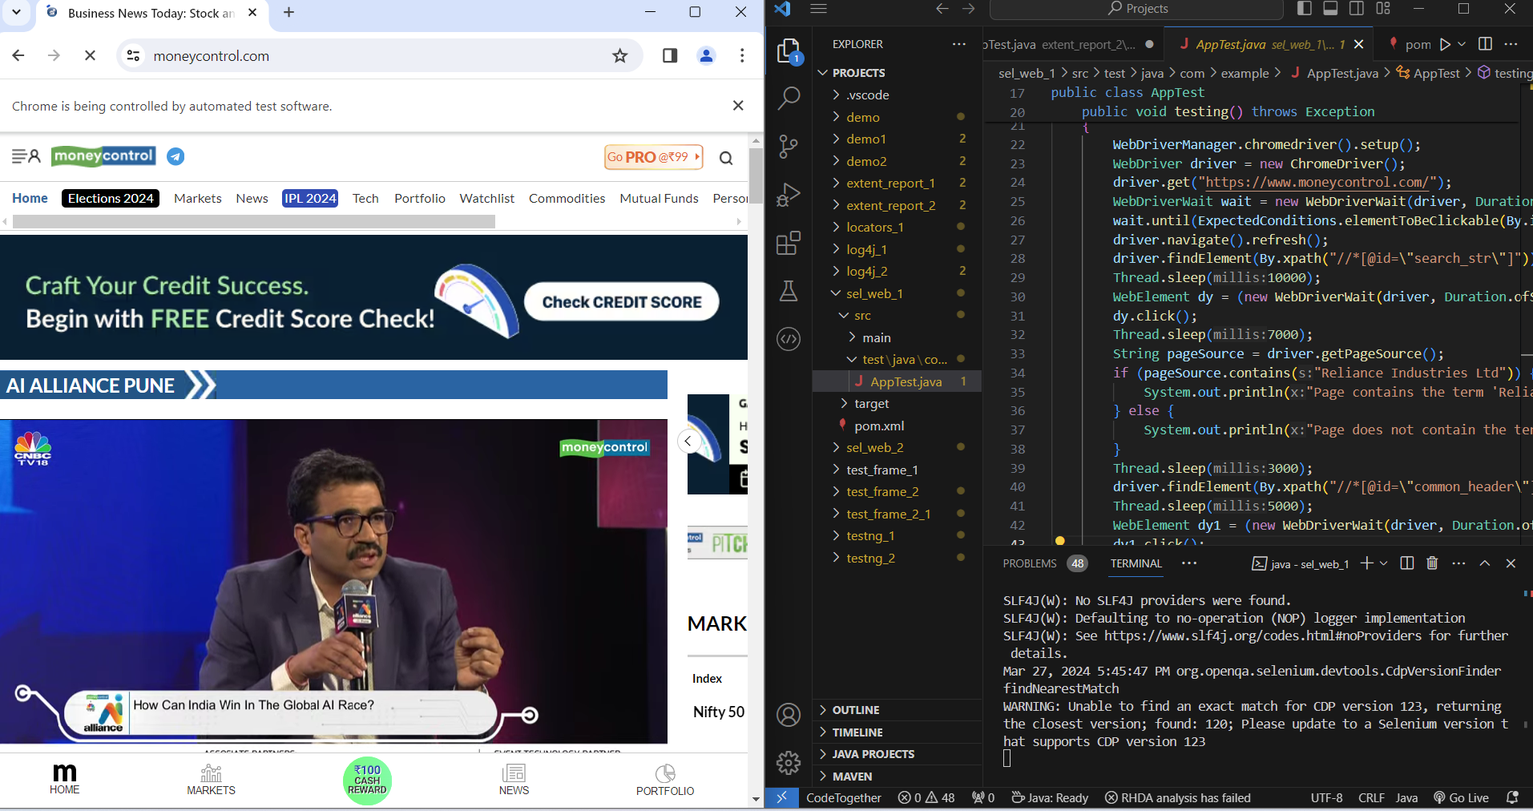
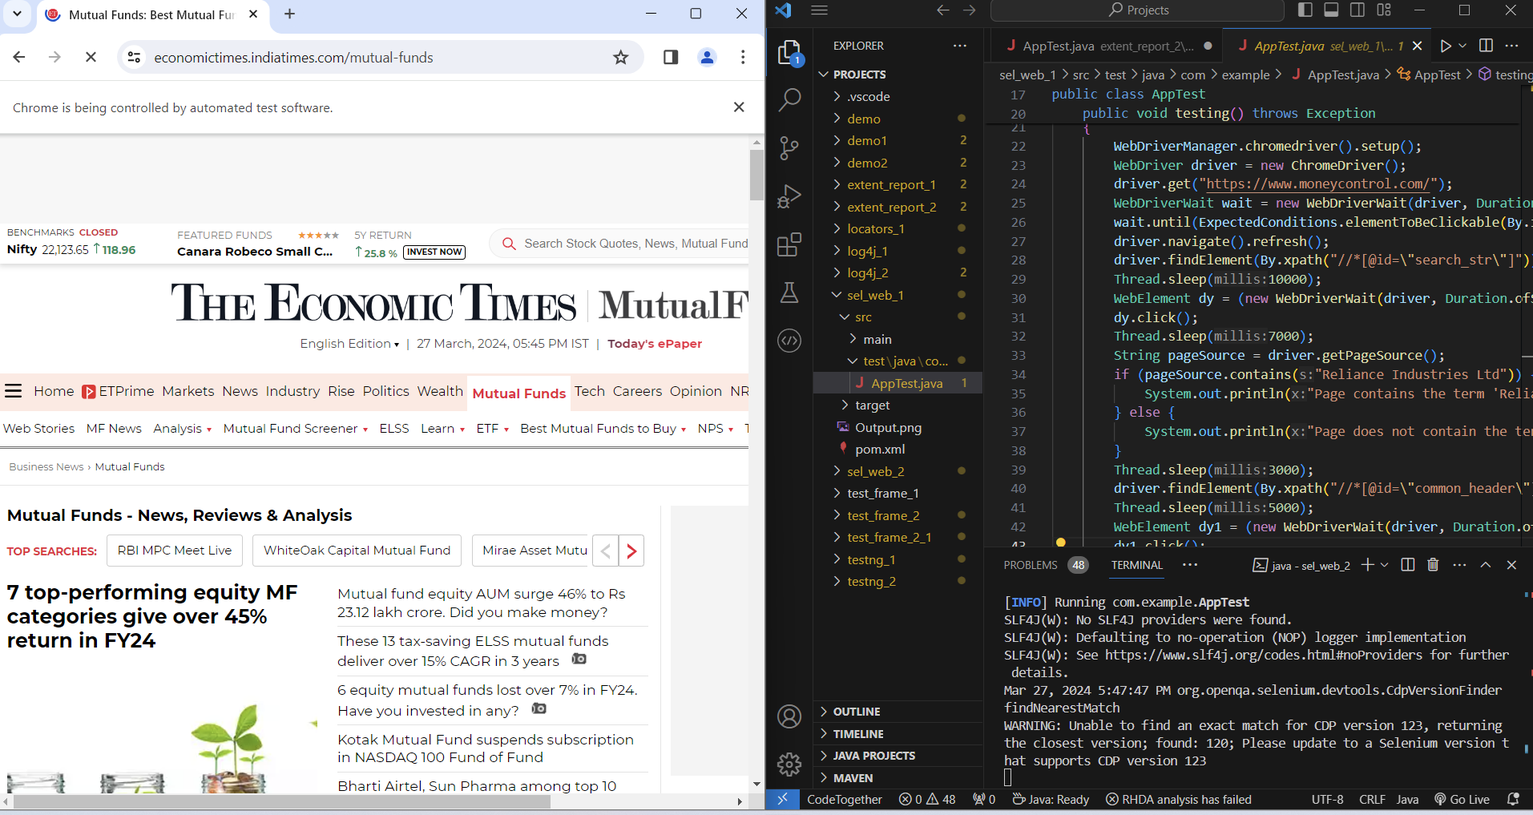
Add files via upload

diff --git a/Selenium Webdriver/target/surefire-reports/Surefire suite/Surefire test.html b/Selenium Webdriver/target/surefire-reports/Surefire suite/Surefire test.html
@@ -57,9 +57,9 @@ function toggleAllBoxes() {
 <tr>
 <td>Tests passed/Failed/Skipped:</td><td>0/1/0</td>
 </tr><tr>
-<td>Started on:</td><td>Wed Mar 27 17:45:44 IST 2024</td>
+<td>Started on:</td><td>Wed Mar 27 17:47:44 IST 2024</td>
 </tr>
-<tr><td>Total time:</td><td>46 seconds (46642 ms)</td>
+<tr><td>Total time:</td><td>83 seconds (83297 ms)</td>
 </tr><tr>
 <td>Included groups:</td><td></td>
 </tr><tr>
@@ -77,15 +77,27 @@ function toggleAllBoxes() {
 </tr>
 <tr>
 <td title='com.example.AppTest.testing()'><b>testing</b><br>Test class: com.example.AppTest</td>
-<td><div><pre>org.openqa.selenium.TimeoutException: Expected condition failed: waiting for element to be clickable: By.id: search_str (tried for 10 second(s) with 500 milliseconds interval)
+<td><div><pre>org.openqa.selenium.NoSuchWindowException: no such window: target window already closed
+from unknown error: web view not found
+  (Session info: chrome=123.0.6312.86)
 Build info: version: &apos;4.16.1&apos;, revision: &apos;9b4c83354e&apos;
 System info: os.name: &apos;Windows 11&apos;, os.arch: &apos;amd64&apos;, os.version: &apos;10.0&apos;, java.version: &apos;17.0.10&apos;
 Driver info: org.openqa.selenium.chrome.ChromeDriver
-Capabilities {acceptInsecureCerts: false, browserName: chrome, browserVersion: 123.0.6312.86, chrome: {chromedriverVersion: 123.0.6312.86 (9b72c47a0536..., userDataDir: C:\Users\utmag\AppData\Loca...}, fedcm:accounts: true, goog:chromeOptions: {debuggerAddress: localhost:60021}, networkConnectionEnabled: false, pageLoadStrategy: normal, platformName: windows, proxy: Proxy(), se:cdp: ws://localhost:60021/devtoo..., se:cdpVersion: 123.0.6312.86, setWindowRect: true, strictFileInteractability: false, timeouts: {implicit: 0, pageLoad: 300000, script: 30000}, unhandledPromptBehavior: dismiss and notify, webauthn:extension:credBlob: true, webauthn:extension:largeBlob: true, webauthn:extension:minPinLength: true, webauthn:extension:prf: true, webauthn:virtualAuthenticators: true}
-Session ID: 8e206a23b489aefc67af79acb29585cb
-	at org.openqa.selenium.support.ui.WebDriverWait.timeoutException(WebDriverWait.java:84)
-	at org.openqa.selenium.support.ui.FluentWait.until(FluentWait.java:229)
-	at com.example.AppTest.testing(AppTest.java:26)
+Command: [c613be0053ab9027dd490e2678bd0574, findElement {using=xpath, value=//*[@id=&quot;schemenm&quot;]}]
+Capabilities {acceptInsecureCerts: false, browserName: chrome, browserVersion: 123.0.6312.86, chrome: {chromedriverVersion: 123.0.6312.86 (9b72c47a0536..., userDataDir: C:\Users\utmag\AppData\Loca...}, fedcm:accounts: true, goog:chromeOptions: {debuggerAddress: localhost:60415}, networkConnectionEnabled: false, pageLoadStrategy: normal, platformName: windows, proxy: Proxy(), se:cdp: ws://localhost:60415/devtoo..., se:cdpVersion: 123.0.6312.86, setWindowRect: true, strictFileInteractability: false, timeouts: {implicit: 0, pageLoad: 300000, script: 30000}, unhandledPromptBehavior: dismiss and notify, webauthn:extension:credBlob: true, webauthn:extension:largeBlob: true, webauthn:extension:minPinLength: true, webauthn:extension:prf: true, webauthn:virtualAuthenticators: true}
+Session ID: c613be0053ab9027dd490e2678bd0574
+	at org.openqa.selenium.remote.codec.w3c.W3CHttpResponseCodec.createException(W3CHttpResponseCodec.java:200)
+	at org.openqa.selenium.remote.codec.w3c.W3CHttpResponseCodec.decode(W3CHttpResponseCodec.java:133)
+	at org.openqa.selenium.remote.codec.w3c.W3CHttpResponseCodec.decode(W3CHttpResponseCodec.java:52)
+	at org.openqa.selenium.remote.HttpCommandExecutor.execute(HttpCommandExecutor.java:191)
+	at org.openqa.selenium.remote.service.DriverCommandExecutor.invokeExecute(DriverCommandExecutor.java:200)
+	at org.openqa.selenium.remote.service.DriverCommandExecutor.execute(DriverCommandExecutor.java:175)
+	at org.openqa.selenium.remote.RemoteWebDriver.execute(RemoteWebDriver.java:523)
+	at org.openqa.selenium.remote.ElementLocation$ElementFinder$2.findElement(ElementLocation.java:165)
+	at org.openqa.selenium.remote.ElementLocation.findElement(ElementLocation.java:59)
+	at org.openqa.selenium.remote.RemoteWebDriver.findElement(RemoteWebDriver.java:360)
+	at org.openqa.selenium.remote.RemoteWebDriver.findElement(RemoteWebDriver.java:354)
+	at com.example.AppTest.testing(AppTest.java:45)
 	at org.junit.runners.model.FrameworkMethod$1.runReflectiveCall(FrameworkMethod.java:47)
 	at org.junit.internal.runners.model.ReflectiveCallable.run(ReflectiveCallable.java:12)
 	at org.junit.runners.model.FrameworkMethod.invokeExplosively(FrameworkMethod.java:44)
@@ -102,16 +114,33 @@ Session ID: 8e206a23b489aefc67af79acb29585cb
 	at org.junit.runner.JUnitCore.run(JUnitCore.java:160)
 	at org.junit.runner.JUnitCore.run(JUnitCore.java:138)
 	at java.base/java.util.ArrayList.forEach(ArrayList.java:1511)
-... Removed 28 stack frames</pre></div><a href='#' onClick='toggleBox("stack-trace1787987889", this, "Click to show all stack frames", "Click to hide stack frames")'>Click to show all stack frames</a>
-<div class='stack-trace' id='stack-trace1787987889'><pre>org.openqa.selenium.TimeoutException: Expected condition failed: waiting for element to be clickable: By.id: search_str (tried for 10 second(s) with 500 milliseconds interval)
+... Removed 33 stack frames</pre></div><a href='#' onClick='toggleBox("stack-trace1047477166", this, "Click to show all stack frames", "Click to hide stack frames")'>Click to show all stack frames</a>
+<div class='stack-trace' id='stack-trace1047477166'><pre>org.openqa.selenium.NoSuchWindowException: no such window: target window already closed
+from unknown error: web view not found
+  (Session info: chrome=123.0.6312.86)
 Build info: version: &apos;4.16.1&apos;, revision: &apos;9b4c83354e&apos;
 System info: os.name: &apos;Windows 11&apos;, os.arch: &apos;amd64&apos;, os.version: &apos;10.0&apos;, java.version: &apos;17.0.10&apos;
 Driver info: org.openqa.selenium.chrome.ChromeDriver
-Capabilities {acceptInsecureCerts: false, browserName: chrome, browserVersion: 123.0.6312.86, chrome: {chromedriverVersion: 123.0.6312.86 (9b72c47a0536..., userDataDir: C:\Users\utmag\AppData\Loca...}, fedcm:accounts: true, goog:chromeOptions: {debuggerAddress: localhost:60021}, networkConnectionEnabled: false, pageLoadStrategy: normal, platformName: windows, proxy: Proxy(), se:cdp: ws://localhost:60021/devtoo..., se:cdpVersion: 123.0.6312.86, setWindowRect: true, strictFileInteractability: false, timeouts: {implicit: 0, pageLoad: 300000, script: 30000}, unhandledPromptBehavior: dismiss and notify, webauthn:extension:credBlob: true, webauthn:extension:largeBlob: true, webauthn:extension:minPinLength: true, webauthn:extension:prf: true, webauthn:virtualAuthenticators: true}
-Session ID: 8e206a23b489aefc67af79acb29585cb
-	at org.openqa.selenium.support.ui.WebDriverWait.timeoutException(WebDriverWait.java:84)
-	at org.openqa.selenium.support.ui.FluentWait.until(FluentWait.java:229)
-	at com.example.AppTest.testing(AppTest.java:26)
+Command: [c613be0053ab9027dd490e2678bd0574, findElement {using=xpath, value=//*[@id=&quot;schemenm&quot;]}]
+Capabilities {acceptInsecureCerts: false, browserName: chrome, browserVersion: 123.0.6312.86, chrome: {chromedriverVersion: 123.0.6312.86 (9b72c47a0536..., userDataDir: C:\Users\utmag\AppData\Loca...}, fedcm:accounts: true, goog:chromeOptions: {debuggerAddress: localhost:60415}, networkConnectionEnabled: false, pageLoadStrategy: normal, platformName: windows, proxy: Proxy(), se:cdp: ws://localhost:60415/devtoo..., se:cdpVersion: 123.0.6312.86, setWindowRect: true, strictFileInteractability: false, timeouts: {implicit: 0, pageLoad: 300000, script: 30000}, unhandledPromptBehavior: dismiss and notify, webauthn:extension:credBlob: true, webauthn:extension:largeBlob: true, webauthn:extension:minPinLength: true, webauthn:extension:prf: true, webauthn:virtualAuthenticators: true}
+Session ID: c613be0053ab9027dd490e2678bd0574
+	at java.base/jdk.internal.reflect.NativeConstructorAccessorImpl.newInstance0(Native Method)
+	at java.base/jdk.internal.reflect.NativeConstructorAccessorImpl.newInstance(NativeConstructorAccessorImpl.java:77)
+	at java.base/jdk.internal.reflect.DelegatingConstructorAccessorImpl.newInstance(DelegatingConstructorAccessorImpl.java:45)
+	at java.base/java.lang.reflect.Constructor.newInstanceWithCaller(Constructor.java:499)
+	at java.base/java.lang.reflect.Constructor.newInstance(Constructor.java:480)
+	at org.openqa.selenium.remote.codec.w3c.W3CHttpResponseCodec.createException(W3CHttpResponseCodec.java:200)
+	at org.openqa.selenium.remote.codec.w3c.W3CHttpResponseCodec.decode(W3CHttpResponseCodec.java:133)
+	at org.openqa.selenium.remote.codec.w3c.W3CHttpResponseCodec.decode(W3CHttpResponseCodec.java:52)
+	at org.openqa.selenium.remote.HttpCommandExecutor.execute(HttpCommandExecutor.java:191)
+	at org.openqa.selenium.remote.service.DriverCommandExecutor.invokeExecute(DriverCommandExecutor.java:200)
+	at org.openqa.selenium.remote.service.DriverCommandExecutor.execute(DriverCommandExecutor.java:175)
+	at org.openqa.selenium.remote.RemoteWebDriver.execute(RemoteWebDriver.java:523)
+	at org.openqa.selenium.remote.ElementLocation$ElementFinder$2.findElement(ElementLocation.java:165)
+	at org.openqa.selenium.remote.ElementLocation.findElement(ElementLocation.java:59)
+	at org.openqa.selenium.remote.RemoteWebDriver.findElement(RemoteWebDriver.java:360)
+	at org.openqa.selenium.remote.RemoteWebDriver.findElement(RemoteWebDriver.java:354)
+	at com.example.AppTest.testing(AppTest.java:45)
 	at java.base/jdk.internal.reflect.NativeMethodAccessorImpl.invoke0(Native Method)
 	at java.base/jdk.internal.reflect.NativeMethodAccessorImpl.invoke(NativeMethodAccessorImpl.java:77)
 	at java.base/jdk.internal.reflect.DelegatingMethodAccessorImpl.invoke(DelegatingMethodAccessorImpl.java:43)
@@ -157,7 +186,7 @@ Session ID: 8e206a23b489aefc67af79acb29585cb
 	at org.apache.maven.surefire.booter.ForkedBooter.execute(ForkedBooter.java:126)
 	at org.apache.maven.surefire.booter.ForkedBooter.main(ForkedBooter.java:418)
 </pre></div></td>
-<td>46</td>
+<td>83</td>
 <td>testing(com.example.AppTest)</td></tr>
 </table><p>
 </body>

diff --git a/Selenium Webdriver/target/surefire-reports/emailable-report.html b/Selenium Webdriver/target/surefire-reports/emailable-report.html
@@ -9,19 +9,31 @@
 <table>
 <tr><th>Test</th><th># Passed</th><th># Skipped</th><th># Retried</th><th># Failed</th><th>Time (ms)</th><th>Included Groups</th><th>Excluded Groups</th></tr>
 <tr><th colspan="8">Surefire suite</th></tr>
-<tr><td><a href="#t0">Surefire test</a></td><td class="num">0</td><td class="num">0</td><td class="num">0</td><td class="num attn">1</td><td class="num">46,642</td><td></td><td></td></tr>
+<tr><td><a href="#t0">Surefire test</a></td><td class="num">0</td><td class="num">0</td><td class="num">0</td><td class="num attn">1</td><td class="num">83,297</td><td></td><td></td></tr>
 </table>
-<table id='summary'><thead><tr><th>Class</th><th>Method</th><th>Start</th><th>Time (ms)</th></tr></thead><tbody><tr><th colspan="4">Surefire suite</th></tr></tbody><tbody id="t0"><tr><th colspan="4">Surefire test &#8212; failed</th></tr><tr class="failedeven"><td rowspan="1">com.example.AppTest</td><td><a href="#m0">testing</a></td><td rowspan="1">1711541744358</td><td rowspan="1">46545</td></tr></tbody>
+<table id='summary'><thead><tr><th>Class</th><th>Method</th><th>Start</th><th>Time (ms)</th></tr></thead><tbody><tr><th colspan="4">Surefire suite</th></tr></tbody><tbody id="t0"><tr><th colspan="4">Surefire test &#8212; failed</th></tr><tr class="failedeven"><td rowspan="1">com.example.AppTest</td><td><a href="#m0">testing</a></td><td rowspan="1">1711541864933</td><td rowspan="1">83192</td></tr></tbody>
 </table>
-<h2>Surefire test</h2><h3 id="m0">com.example.AppTest#testing</h3><table class="result"><tr><th>Exception</th></tr><tr><td><div class="stacktrace">org.openqa.selenium.TimeoutException: Expected condition failed: waiting for element to be clickable: By.id: search_str (tried for 10 second(s) with 500 milliseconds interval)
+<h2>Surefire test</h2><h3 id="m0">com.example.AppTest#testing</h3><table class="result"><tr><th>Exception</th></tr><tr><td><div class="stacktrace">org.openqa.selenium.NoSuchWindowException: no such window: target window already closed
+from unknown error: web view not found
+  (Session info: chrome=123.0.6312.86)
 Build info: version: &apos;4.16.1&apos;, revision: &apos;9b4c83354e&apos;
 System info: os.name: &apos;Windows 11&apos;, os.arch: &apos;amd64&apos;, os.version: &apos;10.0&apos;, java.version: &apos;17.0.10&apos;
 Driver info: org.openqa.selenium.chrome.ChromeDriver
-Capabilities {acceptInsecureCerts: false, browserName: chrome, browserVersion: 123.0.6312.86, chrome: {chromedriverVersion: 123.0.6312.86 (9b72c47a0536..., userDataDir: C:\Users\utmag\AppData\Loca...}, fedcm:accounts: true, goog:chromeOptions: {debuggerAddress: localhost:60021}, networkConnectionEnabled: false, pageLoadStrategy: normal, platformName: windows, proxy: Proxy(), se:cdp: ws://localhost:60021/devtoo..., se:cdpVersion: 123.0.6312.86, setWindowRect: true, strictFileInteractability: false, timeouts: {implicit: 0, pageLoad: 300000, script: 30000}, unhandledPromptBehavior: dismiss and notify, webauthn:extension:credBlob: true, webauthn:extension:largeBlob: true, webauthn:extension:minPinLength: true, webauthn:extension:prf: true, webauthn:virtualAuthenticators: true}
-Session ID: 8e206a23b489aefc67af79acb29585cb
-	at org.openqa.selenium.support.ui.WebDriverWait.timeoutException(WebDriverWait.java:84)
-	at org.openqa.selenium.support.ui.FluentWait.until(FluentWait.java:229)
-	at com.example.AppTest.testing(AppTest.java:26)
+Command: [c613be0053ab9027dd490e2678bd0574, findElement {using=xpath, value=//*[@id=&quot;schemenm&quot;]}]
+Capabilities {acceptInsecureCerts: false, browserName: chrome, browserVersion: 123.0.6312.86, chrome: {chromedriverVersion: 123.0.6312.86 (9b72c47a0536..., userDataDir: C:\Users\utmag\AppData\Loca...}, fedcm:accounts: true, goog:chromeOptions: {debuggerAddress: localhost:60415}, networkConnectionEnabled: false, pageLoadStrategy: normal, platformName: windows, proxy: Proxy(), se:cdp: ws://localhost:60415/devtoo..., se:cdpVersion: 123.0.6312.86, setWindowRect: true, strictFileInteractability: false, timeouts: {implicit: 0, pageLoad: 300000, script: 30000}, unhandledPromptBehavior: dismiss and notify, webauthn:extension:credBlob: true, webauthn:extension:largeBlob: true, webauthn:extension:minPinLength: true, webauthn:extension:prf: true, webauthn:virtualAuthenticators: true}
+Session ID: c613be0053ab9027dd490e2678bd0574
+	at org.openqa.selenium.remote.codec.w3c.W3CHttpResponseCodec.createException(W3CHttpResponseCodec.java:200)
+	at org.openqa.selenium.remote.codec.w3c.W3CHttpResponseCodec.decode(W3CHttpResponseCodec.java:133)
+	at org.openqa.selenium.remote.codec.w3c.W3CHttpResponseCodec.decode(W3CHttpResponseCodec.java:52)
+	at org.openqa.selenium.remote.HttpCommandExecutor.execute(HttpCommandExecutor.java:191)
+	at org.openqa.selenium.remote.service.DriverCommandExecutor.invokeExecute(DriverCommandExecutor.java:200)
+	at org.openqa.selenium.remote.service.DriverCommandExecutor.execute(DriverCommandExecutor.java:175)
+	at org.openqa.selenium.remote.RemoteWebDriver.execute(RemoteWebDriver.java:523)
+	at org.openqa.selenium.remote.ElementLocation$ElementFinder$2.findElement(ElementLocation.java:165)
+	at org.openqa.selenium.remote.ElementLocation.findElement(ElementLocation.java:59)
+	at org.openqa.selenium.remote.RemoteWebDriver.findElement(RemoteWebDriver.java:360)
+	at org.openqa.selenium.remote.RemoteWebDriver.findElement(RemoteWebDriver.java:354)
+	at com.example.AppTest.testing(AppTest.java:45)
 	at org.junit.runners.model.FrameworkMethod$1.runReflectiveCall(FrameworkMethod.java:47)
 	at org.junit.internal.runners.model.ReflectiveCallable.run(ReflectiveCallable.java:12)
 	at org.junit.runners.model.FrameworkMethod.invokeExplosively(FrameworkMethod.java:44)
@@ -38,6 +50,6 @@ Session ID: 8e206a23b489aefc67af79acb29585cb
 	at org.junit.runner.JUnitCore.run(JUnitCore.java:160)
 	at org.junit.runner.JUnitCore.run(JUnitCore.java:138)
 	at java.base/java.util.ArrayList.forEach(ArrayList.java:1511)
-... Removed 28 stack frames</div></td></tr></table><p class="totop"><a href="#summary">back to summary</a></p>
+... Removed 33 stack frames</div></td></tr></table><p class="totop"><a href="#summary">back to summary</a></p>
 </body>
 </html>

diff --git a/Selenium Webdriver/target/surefire-reports/index.html b/Selenium Webdriver/target/surefire-reports/index.html
@@ -129,15 +129,27 @@
                   <a name="testing">
                   </a> <!-- testing -->
                   <span class="method-name">testing</span>
-                  <div class="stack-trace">org.openqa.selenium.TimeoutException: Expected condition failed: waiting for element to be clickable: By.id: search_str (tried for 10 second(s) with 500 milliseconds interval)
+                  <div class="stack-trace">org.openqa.selenium.NoSuchWindowException: no such window: target window already closed
+from unknown error: web view not found
+  (Session info: chrome=123.0.6312.86)
 Build info: version: &apos;4.16.1&apos;, revision: &apos;9b4c83354e&apos;
 System info: os.name: &apos;Windows 11&apos;, os.arch: &apos;amd64&apos;, os.version: &apos;10.0&apos;, java.version: &apos;17.0.10&apos;
 Driver info: org.openqa.selenium.chrome.ChromeDriver
-Capabilities {acceptInsecureCerts: false, browserName: chrome, browserVersion: 123.0.6312.86, chrome: {chromedriverVersion: 123.0.6312.86 (9b72c47a0536..., userDataDir: C:\Users\utmag\AppData\Loca...}, fedcm:accounts: true, goog:chromeOptions: {debuggerAddress: localhost:60021}, networkConnectionEnabled: false, pageLoadStrategy: normal, platformName: windows, proxy: Proxy(), se:cdp: ws://localhost:60021/devtoo..., se:cdpVersion: 123.0.6312.86, setWindowRect: true, strictFileInteractability: false, timeouts: {implicit: 0, pageLoad: 300000, script: 30000}, unhandledPromptBehavior: dismiss and notify, webauthn:extension:credBlob: true, webauthn:extension:largeBlob: true, webauthn:extension:minPinLength: true, webauthn:extension:prf: true, webauthn:virtualAuthenticators: true}
-Session ID: 8e206a23b489aefc67af79acb29585cb
-	at org.openqa.selenium.support.ui.WebDriverWait.timeoutException(WebDriverWait.java:84)
-	at org.openqa.selenium.support.ui.FluentWait.until(FluentWait.java:229)
-	at com.example.AppTest.testing(AppTest.java:26)
+Command: [c613be0053ab9027dd490e2678bd0574, findElement {using=xpath, value=//*[@id=&quot;schemenm&quot;]}]
+Capabilities {acceptInsecureCerts: false, browserName: chrome, browserVersion: 123.0.6312.86, chrome: {chromedriverVersion: 123.0.6312.86 (9b72c47a0536..., userDataDir: C:\Users\utmag\AppData\Loca...}, fedcm:accounts: true, goog:chromeOptions: {debuggerAddress: localhost:60415}, networkConnectionEnabled: false, pageLoadStrategy: normal, platformName: windows, proxy: Proxy(), se:cdp: ws://localhost:60415/devtoo..., se:cdpVersion: 123.0.6312.86, setWindowRect: true, strictFileInteractability: false, timeouts: {implicit: 0, pageLoad: 300000, script: 30000}, unhandledPromptBehavior: dismiss and notify, webauthn:extension:credBlob: true, webauthn:extension:largeBlob: true, webauthn:extension:minPinLength: true, webauthn:extension:prf: true, webauthn:virtualAuthenticators: true}
+Session ID: c613be0053ab9027dd490e2678bd0574
+	at org.openqa.selenium.remote.codec.w3c.W3CHttpResponseCodec.createException(W3CHttpResponseCodec.java:200)
+	at org.openqa.selenium.remote.codec.w3c.W3CHttpResponseCodec.decode(W3CHttpResponseCodec.java:133)
+	at org.openqa.selenium.remote.codec.w3c.W3CHttpResponseCodec.decode(W3CHttpResponseCodec.java:52)
+	at org.openqa.selenium.remote.HttpCommandExecutor.execute(HttpCommandExecutor.java:191)
+	at org.openqa.selenium.remote.service.DriverCommandExecutor.invokeExecute(DriverCommandExecutor.java:200)
+	at org.openqa.selenium.remote.service.DriverCommandExecutor.execute(DriverCommandExecutor.java:175)
+	at org.openqa.selenium.remote.RemoteWebDriver.execute(RemoteWebDriver.java:523)
+	at org.openqa.selenium.remote.ElementLocation$ElementFinder$2.findElement(ElementLocation.java:165)
+	at org.openqa.selenium.remote.ElementLocation.findElement(ElementLocation.java:59)
+	at org.openqa.selenium.remote.RemoteWebDriver.findElement(RemoteWebDriver.java:360)
+	at org.openqa.selenium.remote.RemoteWebDriver.findElement(RemoteWebDriver.java:354)
+	at com.example.AppTest.testing(AppTest.java:45)
 	at org.junit.runners.model.FrameworkMethod$1.runReflectiveCall(FrameworkMethod.java:47)
 	at org.junit.internal.runners.model.ReflectiveCallable.run(ReflectiveCallable.java:12)
 	at org.junit.runners.model.FrameworkMethod.invokeExplosively(FrameworkMethod.java:44)
@@ -154,7 +166,7 @@ Session ID: 8e206a23b489aefc67af79acb29585cb
 	at org.junit.runner.JUnitCore.run(JUnitCore.java:160)
 	at org.junit.runner.JUnitCore.run(JUnitCore.java:138)
 	at java.base/java.util.ArrayList.forEach(ArrayList.java:1511)
-... Removed 28 stack frames
+... Removed 33 stack frames
 </div> <!-- stack-trace -->
                 </div> <!-- method-content -->
               </div> <!-- method -->
@@ -215,12 +227,12 @@ data.addRows(1);
 data.setCell(0, 0, 0)
 data.setCell(0, 1, 'testing')
 data.setCell(0, 2, 'com.example.AppTest')
-data.setCell(0, 3, 46545);
+data.setCell(0, 3, 83192);
 window.suiteTableData['Surefire_suite']= { tableData: data, tableDiv: 'times-div-Surefire_suite'}
 return data;
 }
               </script>
-              <span class="suite-total-time">Total running time: 46 seconds</span>
+              <span class="suite-total-time">Total running time: 1 minutes</span>
               <div id="times-div-Surefire_suite">
               </div> <!-- times-div-Surefire_suite -->
             </div> <!-- times-div -->

diff --git a/Selenium Webdriver/src/test/java/com/example/AppTest.java b/Selenium Webdriver/src/test/java/com/example/AppTest.java
@@ -14,34 +14,61 @@ import org.openqa.selenium.support.ui.WebDriverWait;
 
 import io.github.bonigarcia.wdm.WebDriverManager;
 
+/**
+ * Unit test for simple App.
+ */
 public class AppTest 
 {
+    /**
+     * Rigorous Test :-)
+     */
     @Test
     public void testing() throws Exception
     {
         WebDriverManager.chromedriver().setup();
         WebDriver driver = new ChromeDriver();
-        driver.get("https://www.moneycontrol.com/");
-        WebDriverWait wait = new WebDriverWait(driver, Duration.ofSeconds(10));
-        wait.until(ExpectedConditions.elementToBeClickable(By.id("search_str")));
-        driver.navigate().refresh();
-        driver.findElement(By.xpath("//*[@id=\"search_str\"]")).sendKeys("Reliance Industries");
+        driver.manage().window().maximize();
+        WebDriverWait wait;
+        wait = new WebDriverWait(driver, Duration.ofSeconds(20));
+        driver.get("https://economictimes.indiatimes.com/et-now/results");
         Thread.sleep(10000);
-        WebElement dy = (new WebDriverWait(driver, Duration.ofSeconds(10))).until(ExpectedConditions.presenceOfElementLocated(By.xpath("//*[@id=\"autosuggestlist\"]/ul/li[1]/a")));//implicit wait
-        dy.click();
-        Thread.sleep(7000);
-        String pageSource = driver.getPageSource();
-        if (pageSource.contains("Reliance Industries Ltd")) {
-            System.out.println("Page contains the term 'Reliance Industries Ltd'.");
-        } else {
-            System.out.println("Page does not contain the term 'Reliance Industries Ltd'.");
-        }
+        driver.findElement(By.xpath("//*[@id=\"topnav\"]/div[10]/a")).click();
+        wait.until(ExpectedConditions.visibilityOfElementLocated(By.xpath("//*[@id=\"sideBar\"]/div[4]/h2")));
+        WebElement dropdown = driver.findElement(By.xpath("//*[@id=\"amcSelection\"]"));
+        Thread.sleep(5000);
+        dropdown.click();
+        wait.until(ExpectedConditions.visibilityOfElementLocated(By.xpath("//*[@id=\"amcSelection\"]/option[10]")));
+        Thread.sleep(5000);
+        WebElement option = driver.findElement(By.xpath("//*[@id=\"amcSelection\"]/option[10]"));
+        option.click();
+        Thread.sleep(5000);
+        WebElement dropdown1 = driver.findElement(By.xpath("//*[@id=\"schemenm\"]"));
+        Thread.sleep(5000);
+        dropdown1.click();
+        wait.until(ExpectedConditions.visibilityOfElementLocated(By.xpath("//*[@id=\"canara-robeco-bluechip-equity-fund-direct-plan\"]")));
+        WebElement option1 = driver.findElement(By.xpath("//*[@id=\"canara-robeco-bluechip-equity-fund-direct-plan\"]"));
+        option1.click();
+        Thread.sleep(6000);
+        driver.findElement(By.xpath("//*[@id=\"anchor3\"]")).click();
+        Thread.sleep(10000);
+        driver.get("https://economictimes.indiatimes.com/canara-robeco-bluechip-equity-fund-direct-plan/mffactsheet/schemeid-15765.cms");
+        Thread.sleep(5000);
+        driver.findElement(By.xpath("//*[@id=\"installment_type\"]/li")).click();
         Thread.sleep(3000);
-        driver.findElement(By.xpath("//*[@id=\"common_header\"]/div[1]/div[3]/nav/div/ul/li[10]/a")).click();
+        driver.findElement(By.xpath("//*[@id=\"installment_type\"]/li/ul/li[1]")).click();
+        Thread.sleep(3000);
+        driver.findElement(By.xpath("//*[@id=\"installment_amt\"]/li")).click();
+        Thread.sleep(3000);
+        driver.findElement(By.xpath("//*[@id=\"installment_amt\"]/li/ul/li[3]")).click();
+        Thread.sleep(3000);
+        driver.findElement(By.xpath("//*[@id=\"installment_period\"]/li")).click();
+        Thread.sleep(3000);
+        driver.findElement(By.xpath("//*[@id=\"installment_period\"]/li/ul/li[4]/span")).click();
         Thread.sleep(5000);
-        WebElement dy1 = (new WebDriverWait(driver, Duration.ofSeconds(10))).until(ExpectedConditions.presenceOfElementLocated(By.xpath("//*[@id=\"mc3_return\"]/div[1]/ul/li[2]/a")));//implicit wait
-        dy1.click();
-        Thread.sleep(5000);
+        driver.findElement(By.xpath("//*[@id=\"mfNav\"]/div/ul/li[2]")).click();
+        Thread.sleep(3000);
+        String a = driver.findElement(By.xpath("//*[@id=\"mfReturns\"]/div[2]/div[2]/ul/li[1]/table/tbody/tr[1]")).getText();
+        System.out.println(a);
         driver.quit();
     }
 }
